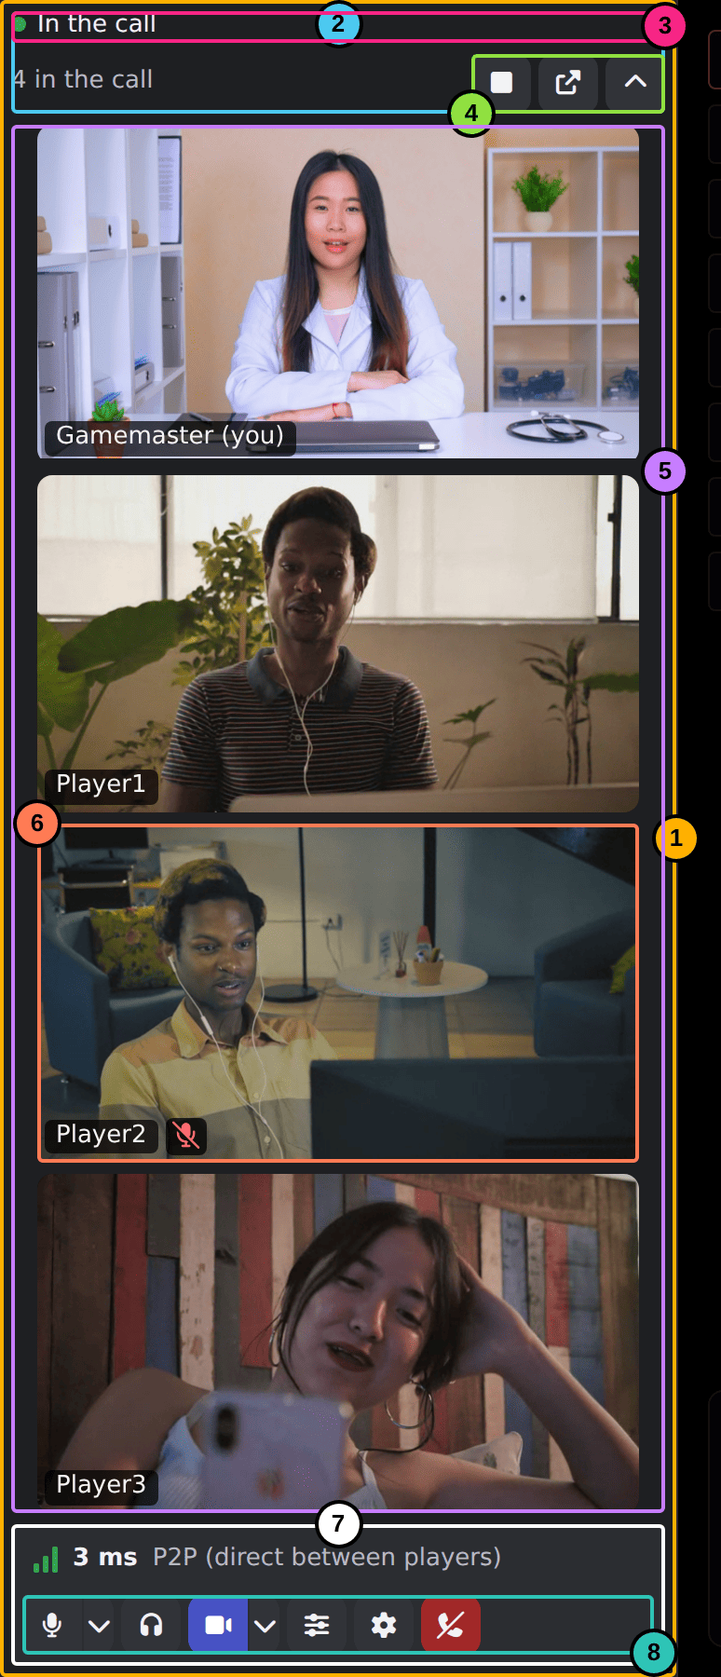
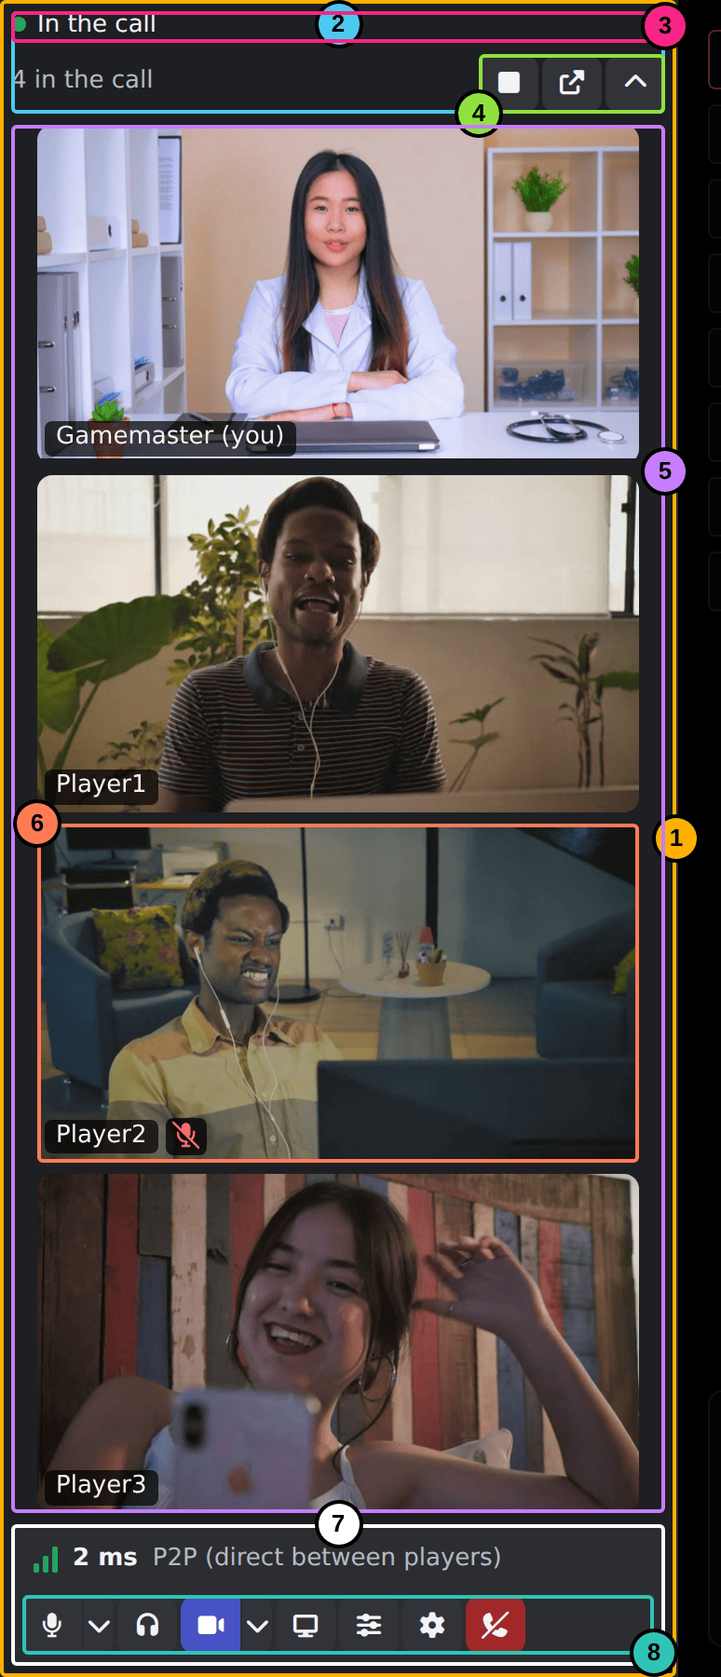
fix(dock): the voice panel's buttons fit on one row again (#20)
* fix(dock): the voice panel's buttons fit on one row again

The screen share button made seven, and the leave button wrapped onto a
row of its own in a dock of the default 300px. The buttons now sit 2px
apart (--mav-dock-button-gap), and the top and bottom placements' column
counts seven. A browser test checks the row in three placements. The
theming guide names the share button's class.

* docs: screenshots with the screen share button

diff --git a/packages/dock/styles/dock.css b/packages/dock/styles/dock.css
@@ -28,11 +28,15 @@
   --mav-dock-gap: 6px;
   --mav-dock-width: 300px;
   --mav-dock-height: 225px;
+  /* The gap between the panel's buttons: small enough that its row of
+     seven fits a 300px dock on one line. */
+  --mav-dock-button-gap: 2px;
   /* Docked at the top or bottom: the header's and the panel's width, the
-     panel's row in it: six buttons and two half-width menu arrows, each
-     arrow joined to its button by a 1px seam instead of the 4px gap. */
+     panel's row in it: seven buttons and two half-width menu arrows, each
+     arrow joined to its button by a 1px seam instead of the gap. */
   --mav-dock-side: calc(
-    7 * var(--mav-dock-button) + 5 * 4px + 2 * 1px + 2 * var(--mav-dock-gap)
+    8 * var(--mav-dock-button) + 6 * var(--mav-dock-button-gap) + 2 * 1px + 2 *
+      var(--mav-dock-gap)
   );
   --mav-dock-tile-bg: #111214;
   --mav-dock-ring: 3px;
@@ -198,7 +202,7 @@
 .mav-dock-buttons {
   display: flex;
   flex-wrap: wrap;
-  gap: 4px;
+  gap: var(--mav-dock-button-gap);
 }
 
 /* ---- Buttons ---- */
@@ -499,7 +503,7 @@
    half a button, joined to its button by a hairline. */
 .mav-dock-menu-arrow {
   width: calc(var(--mav-dock-button) / 2);
-  margin-inline-start: -3px;
+  margin-inline-start: calc(1px - var(--mav-dock-button-gap));
   border-start-start-radius: 0;
   border-end-start-radius: 0;
   font-size: 0.7em;

diff --git a/packages/dock/test/browser/panel.spec.ts b/packages/dock/test/browser/panel.spec.ts
@@ -60,6 +60,37 @@ for (const placement of ["Docked on the left", "Docked at the top"]) {
   });
 }
 
+/** The distinct tops of the panel's shown buttons: one per row. */
+const rowsOf = (page: Page): Promise<number> =>
+  page
+    .locator(".mav-dock-buttons > :not([hidden])")
+    .evaluateAll(
+      (buttons) =>
+        new Set(
+          buttons.map((button) =>
+            Math.round(button.getBoundingClientRect().top),
+          ),
+        ).size,
+    );
+
+for (const placement of [
+  "Docked on the left",
+  "Docked at the top",
+  "Floating",
+]) {
+  test(`${placement}, the panel's buttons fit on one row`, async ({ page }) => {
+    await call(page);
+    await page.locator(".mav-dock-placement").click();
+    await page.getByRole("menuitemradio", { name: placement }).click();
+
+    // Every button of a call, screen sharing's too.
+    await expect(
+      page.getByRole("button", { name: "Share your screen" }),
+    ).toBeVisible();
+    expect(await rowsOf(page)).toBe(1);
+  });
+}
+
 test("the microphone's arrow closes its menu when clicked again", async ({
   page,
 }) => {

diff --git a/docs/dock-theming.md b/docs/dock-theming.md
@@ -163,35 +163,35 @@ The outlines are drawn where the page has each element
 
 ## Classes
 
-| Class                                                                                                                                              | Element                                                                                                                                                                                                                                                     |
-| -------------------------------------------------------------------------------------------------------------------------------------------------- | ----------------------------------------------------------------------------------------------------------------------------------------------------------------------------------------------------------------------------------------------------------- |
-| `.mav-dock`                                                                                                                                        | The dock                                                                                                                                                                                                                                                    |
-| `.mav-dock-header`, `.mav-dock-status`, `.mav-dock-count`, `.mav-dock-tools`                                                                       | Its title bar                                                                                                                                                                                                                                               |
-| `.mav-dock-tiles`                                                                                                                                  | The list of tiles                                                                                                                                                                                                                                           |
-| `.mav-dock-tile`                                                                                                                                   | One player's tile                                                                                                                                                                                                                                           |
-| `.mav-dock-tile-media`, `.mav-dock-tile-video`, `.mav-dock-tile-avatar`                                                                            | The video and the avatar under it                                                                                                                                                                                                                           |
-| `.mav-dock-tile-frame`                                                                                                                             | An empty layer over the video for frames (no clicks)                                                                                                                                                                                                        |
-| `.mav-dock-tile-bar`, `.mav-dock-tile-name`, `.mav-dock-tile-indicators`, `.mav-dock-tile-badges`                                                  | The name and states                                                                                                                                                                                                                                         |
-| `.mav-dock-tile-menu`                                                                                                                              | The tile's menu button                                                                                                                                                                                                                                      |
-| `.mav-dock-tile-move`, `.mav-dock-tile-resize`                                                                                                     | A scattered tile's handles (hidden in other layouts)                                                                                                                                                                                                        |
-| `.mav-dock-edge`, `.mav-dock-edge-grip`                                                                                                            | The docked dock's inner edge and its grip, shown on hover or focus                                                                                                                                                                                          |
-| `.mav-dock-panel`, `.mav-dock-buttons`, `.mav-dock-warnings`, `.mav-dock-alert`                                                                    | The voice panel                                                                                                                                                                                                                                             |
-| `.mav-dock-button`                                                                                                                                 | Every icon button; `.mav-dock-mute`, `-deafen`, `-video`, `-quick`, `-settings`, `-action`, `-leave` name them; `.mav-dock-menu-arrow` (`.mav-dock-mic-menu`, `.mav-dock-camera-menu`) is the arrow beside the microphone or the camera that opens its menu |
-| `.mav-indicator`                                                                                                                                   | One state's icon                                                                                                                                                                                                                                            |
-| `.mav-meter`, `.mav-meter-fill`, `.mav-meter-threshold`                                                                                            | A level meter                                                                                                                                                                                                                                               |
-| `.mav-popover`, `.mav-dock-menu`, `.mav-dock-quick-controls`, `.mav-dock-connection`                                                               | Popovers                                                                                                                                                                                                                                                    |
-| `.mav-control`, `.mav-control-switch`, `.mav-control-button`, `.mav-control-nested`, `.mav-control-pictures`, `.mav-control-picture[aria-checked]` | Controls; a choice with pictures (`ChoiceOption.image`) is a radio group of thumbnails                                                                                                                                                                      |
-| `.mav-settings`, `.mav-settings-tabbed`                                                                                                            | The settings window; `-tabbed` once it has tabs                                                                                                                                                                                                             |
-| `.mav-settings-tabs`, `.mav-settings-tab[data-unsaved]`, `.mav-settings-panel`                                                                     | Its tabs (one with unsaved changes marked) and each tab's content                                                                                                                                                                                           |
-| `.mav-settings-section`, `.mav-settings-row`, `.mav-settings-group`, `.mav-settings-hint`, `.mav-settings-actions`                                 | Sections, labelled rows, grouped fields, hints and a row of buttons                                                                                                                                                                                         |
-| `.mav-settings-footer`, `.mav-settings-pending`                                                                                                    | The footer: what is unsaved, Reset and Save                                                                                                                                                                                                                 |
-| `.mav-call-state`                                                                                                                                  | A player's line saying whether calls are on                                                                                                                                                                                                                 |
-| `.mav-effects`, `.mav-effect-choices`, `.mav-effect-choice[aria-pressed]`, `.mav-effect-controls`, `.mav-effect-state`                             | Effects: Off and each effect as buttons, the chosen effect's own controls, its state                                                                                                                                                                        |
-| `.mav-sensitivity`, `.mav-sensitivity-head`, `.mav-sensitivity-value`, `.mav-sensitivity-bar`, `.mav-sensitivity-handle`                           | Input sensitivity: the level bar with its threshold handle                                                                                                                                                                                                  |
-| `.mav-settings-camera`, `.mav-settings-camera-side`, `.mav-settings-preview`, `.mav-preview-note`, `.mav-preview-only`                             | The camera preview and the note under it                                                                                                                                                                                                                    |
-| `.mav-key[data-listening]`                                                                                                                         | Push to talk's key, waiting for a key press while listening                                                                                                                                                                                                 |
-| `.mav-players-badges`                                                                                                                              | Badges in Foundry's player list                                                                                                                                                                                                                             |
-| `body.modular-av-pip`                                                                                                                              | The dock's own window: a popup or Picture-in-Picture                                                                                                                                                                                                        |
+| Class                                                                                                                                              | Element                                                                                                                                                                                                                                                                |
+| -------------------------------------------------------------------------------------------------------------------------------------------------- | ---------------------------------------------------------------------------------------------------------------------------------------------------------------------------------------------------------------------------------------------------------------------- |
+| `.mav-dock`                                                                                                                                        | The dock                                                                                                                                                                                                                                                               |
+| `.mav-dock-header`, `.mav-dock-status`, `.mav-dock-count`, `.mav-dock-tools`                                                                       | Its title bar                                                                                                                                                                                                                                                          |
+| `.mav-dock-tiles`                                                                                                                                  | The list of tiles                                                                                                                                                                                                                                                      |
+| `.mav-dock-tile`                                                                                                                                   | One player's tile                                                                                                                                                                                                                                                      |
+| `.mav-dock-tile-media`, `.mav-dock-tile-video`, `.mav-dock-tile-avatar`                                                                            | The video and the avatar under it                                                                                                                                                                                                                                      |
+| `.mav-dock-tile-frame`                                                                                                                             | An empty layer over the video for frames (no clicks)                                                                                                                                                                                                                   |
+| `.mav-dock-tile-bar`, `.mav-dock-tile-name`, `.mav-dock-tile-indicators`, `.mav-dock-tile-badges`                                                  | The name and states                                                                                                                                                                                                                                                    |
+| `.mav-dock-tile-menu`                                                                                                                              | The tile's menu button                                                                                                                                                                                                                                                 |
+| `.mav-dock-tile-move`, `.mav-dock-tile-resize`                                                                                                     | A scattered tile's handles (hidden in other layouts)                                                                                                                                                                                                                   |
+| `.mav-dock-edge`, `.mav-dock-edge-grip`                                                                                                            | The docked dock's inner edge and its grip, shown on hover or focus                                                                                                                                                                                                     |
+| `.mav-dock-panel`, `.mav-dock-buttons`, `.mav-dock-warnings`, `.mav-dock-alert`                                                                    | The voice panel                                                                                                                                                                                                                                                        |
+| `.mav-dock-button`                                                                                                                                 | Every icon button; `.mav-dock-mute`, `-deafen`, `-video`, `-screen`, `-quick`, `-settings`, `-action`, `-leave` name them; `.mav-dock-menu-arrow` (`.mav-dock-mic-menu`, `.mav-dock-camera-menu`) is the arrow beside the microphone or the camera that opens its menu |
+| `.mav-indicator`                                                                                                                                   | One state's icon                                                                                                                                                                                                                                                       |
+| `.mav-meter`, `.mav-meter-fill`, `.mav-meter-threshold`                                                                                            | A level meter                                                                                                                                                                                                                                                          |
+| `.mav-popover`, `.mav-dock-menu`, `.mav-dock-quick-controls`, `.mav-dock-connection`                                                               | Popovers                                                                                                                                                                                                                                                               |
+| `.mav-control`, `.mav-control-switch`, `.mav-control-button`, `.mav-control-nested`, `.mav-control-pictures`, `.mav-control-picture[aria-checked]` | Controls; a choice with pictures (`ChoiceOption.image`) is a radio group of thumbnails                                                                                                                                                                                 |
+| `.mav-settings`, `.mav-settings-tabbed`                                                                                                            | The settings window; `-tabbed` once it has tabs                                                                                                                                                                                                                        |
+| `.mav-settings-tabs`, `.mav-settings-tab[data-unsaved]`, `.mav-settings-panel`                                                                     | Its tabs (one with unsaved changes marked) and each tab's content                                                                                                                                                                                                      |
+| `.mav-settings-section`, `.mav-settings-row`, `.mav-settings-group`, `.mav-settings-hint`, `.mav-settings-actions`                                 | Sections, labelled rows, grouped fields, hints and a row of buttons                                                                                                                                                                                                    |
+| `.mav-settings-footer`, `.mav-settings-pending`                                                                                                    | The footer: what is unsaved, Reset and Save                                                                                                                                                                                                                            |
+| `.mav-call-state`                                                                                                                                  | A player's line saying whether calls are on                                                                                                                                                                                                                            |
+| `.mav-effects`, `.mav-effect-choices`, `.mav-effect-choice[aria-pressed]`, `.mav-effect-controls`, `.mav-effect-state`                             | Effects: Off and each effect as buttons, the chosen effect's own controls, its state                                                                                                                                                                                   |
+| `.mav-sensitivity`, `.mav-sensitivity-head`, `.mav-sensitivity-value`, `.mav-sensitivity-bar`, `.mav-sensitivity-handle`                           | Input sensitivity: the level bar with its threshold handle                                                                                                                                                                                                             |
+| `.mav-settings-camera`, `.mav-settings-camera-side`, `.mav-settings-preview`, `.mav-preview-note`, `.mav-preview-only`                             | The camera preview and the note under it                                                                                                                                                                                                                               |
+| `.mav-key[data-listening]`                                                                                                                         | Push to talk's key, waiting for a key press while listening                                                                                                                                                                                                            |
+| `.mav-players-badges`                                                                                                                              | Badges in Foundry's player list                                                                                                                                                                                                                                        |
+| `body.modular-av-pip`                                                                                                                              | The dock's own window: a popup or Picture-in-Picture                                                                                                                                                                                                                   |
 
 ## Attributes
 

diff --git a/.changeset/voice-panel-row.md b/.changeset/voice-panel-row.md
@@ -1,0 +1,8 @@
+---
+"@modular-av/dock": patch
+---
+
+The voice panel's buttons fit on one row again in a dock of the default
+width: the screen share button had pushed the leave button onto a row of
+its own. The buttons sit a little closer together, 2px apart, set by the
+new `--mav-dock-button-gap` token.
